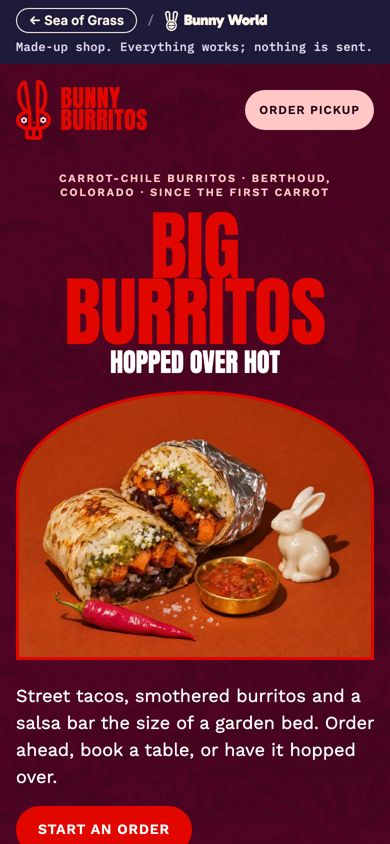
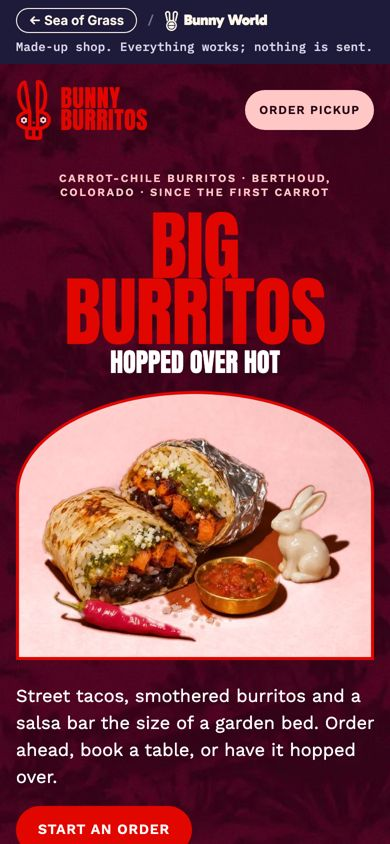
Burritos: hero backdrop recoloured to pink, plant texture back as a flat wine duotone; Long Ears: wordmark straight on the sky, no box (tests first)

Changed region(s): [[0.0308, 0.4621, 0.9538, 0.8009]]

diff --git a/bunnyworld/bunny-burritos/index.html b/bunnyworld/bunny-burritos/index.html
@@ -17,7 +17,7 @@ window.dataLayer=window.dataLayer||[];function gtag(){dataLayer.push(arguments);
 <link rel="preconnect" href="https://fonts.googleapis.com"><link rel="preconnect" href="https://fonts.gstatic.com" crossorigin>
 <link rel="stylesheet" href="https://fonts.googleapis.com/css2?family=Anton&family=Work+Sans:wght@400;500;600;700&family=IBM+Plex+Mono:wght@500&family=Gabarito:wght@900&family=Inter:wght@400;600&display=swap">
 <link rel="stylesheet" href="../shop.css?v=16">
-<link rel="stylesheet" href="style.css?v=17">
+<link rel="stylesheet" href="style.css?v=18">
 </head>
 <body>
 <div class="demo"><span class="crumbs"><a class="sog-back" href="https://seaofgrass.studio/">&larr; Sea of Grass</a><span class="sep" aria-hidden="true">/</span><a class="bw-wm" href="../" aria-label="Back to Bunny World"><img src="../brand/mark-small-cream.svg?v=2" alt="" width="13" height="20"><span>Bunny World</span></a></span><span>Made-up shop. Everything works; nothing is sent.</span></div>
@@ -27,7 +27,7 @@ window.dataLayer=window.dataLayer||[];function gtag(){dataLayer.push(arguments);
 <main id="top">
 <section class="hero wrap"><p class="rule">Carrot-chile burritos &middot; Berthoud, Colorado &middot; since the first carrot</p>
 <h1>Big Burritos</h1><p class="sub">Hopped over hot</p>
-<div class="art photo"><picture><source type="image/webp" srcset="/preview/assets/work/bunny-world/burritos-hero-860.webp 860w, /preview/assets/work/bunny-world/burritos-hero-1290.webp 1290w, /preview/assets/work/bunny-world/burritos-hero-1720.webp 1720w" sizes="(max-width: 900px) calc(100vw - 32px), 860px"><img src="/preview/assets/work/bunny-world/burritos-hero-1100.jpg" width="1100" height="821" alt="A burrito cut in half on a burnt-orange backdrop, its back half in foil, with a bowl of salsa roja, a hot-pink chile and a small white ceramic rabbit" fetchpriority="high" decoding="async"></picture></div>
+<div class="art photo"><picture><source type="image/webp" srcset="/preview/assets/work/bunny-world/burritos-hero-pink-860.webp 860w, /preview/assets/work/bunny-world/burritos-hero-pink-1290.webp 1290w, /preview/assets/work/bunny-world/burritos-hero-pink-1720.webp 1720w" sizes="(max-width: 900px) calc(100vw - 32px), 860px"><img src="/preview/assets/work/bunny-world/burritos-hero-pink-1100.jpg" width="1100" height="821" alt="A burrito cut in half on a burnt-orange backdrop, its back half in foil, with a bowl of salsa roja, a hot-pink chile and a small white ceramic rabbit" fetchpriority="high" decoding="async"></picture></div>
 <div class="hero-row"><p>Street tacos, smothered burritos and a salsa bar the size of a garden bed. Order ahead, book a table, or have it hopped over.</p><a class="btn" href="#menu">Start an order</a></div>
 <div class="getit" aria-labelledby="getit-h"><div class="getit-h"><p class="rule">No pants required</p><h2 id="getit-h">Get it delivered</h2></div><div class="apps"><button class="app dd" type="button" data-demo-link="Demo only: on a real site this opens your DoorDash page.">DoorDash<span aria-hidden="true">&#8599;</span></button><button class="app gh" type="button" data-demo-link="Demo only: on a real site this opens your Grubhub page.">Grubhub<span aria-hidden="true">&#8599;</span></button><button class="app ue" type="button" data-demo-link="Demo only: on a real site this opens your Uber Eats page.">Uber Eats<span aria-hidden="true">&#8599;</span></button></div><p class="getit-note">Hot to your door in about 35 minutes, anywhere in Berthoud.</p></div></section>
 <section class="menu wrap" id="menu"><p class="rule">The menu &middot; order for pickup</p><h2>What's cooking</h2><div class="shots"><figure><picture><source type="image/webp" srcset="/preview/assets/work/bunny-world/burritos-tacos-640.webp 640w, /preview/assets/work/bunny-world/burritos-tacos-960.webp 960w, /preview/assets/work/bunny-world/burritos-tacos-1280.webp 1280w" sizes="(max-width: 900px) calc(50vw - 24px), 590px"><img src="/preview/assets/work/bunny-world/burritos-tacos-900.jpg" width="900" height="672" alt="Three al pastor tacos with pineapple, onion and cilantro on a hot-pink enamel tray, with salsa verde and lime" loading="lazy" decoding="async"></picture><figcaption>Al pastor tacos &middot; $11</figcaption></figure><figure><picture><source type="image/webp" srcset="/preview/assets/work/bunny-world/burritos-chips-640.webp 640w, /preview/assets/work/bunny-world/burritos-chips-960.webp 960w, /preview/assets/work/bunny-world/burritos-chips-1280.webp 1280w" sizes="(max-width: 900px) calc(50vw - 24px), 590px"><img src="/preview/assets/work/bunny-world/burritos-chips-900.jpg" width="900" height="672" alt="Tortilla chips in a gold bowl with salsa roja, salsa verde and carrot-habanero salsa" loading="lazy" decoding="async"></picture><figcaption>Chips &amp; three salsas &middot; $5.50</figcaption></figure></div>

diff --git a/bunnyworld/bunny-burritos/style.css b/bunnyworld/bunny-burritos/style.css
@@ -3,13 +3,13 @@
    Layout and type are unchanged from the Hungry Tiger / Roberta's build: huge poster capitals, dotted rules. */
 :root{--bg:#4f0423;--ink:#ffffff;--muted:#ffc7c6;--line:rgba(255,199,198,.45);--accent:#e10600;--on-accent:#ffffff;--field:#260212;--r:0;--btn-r:999px;--ctl-r:14px;
   --hf:Anton,Impact,sans-serif;--hw:400;--bf:"Work Sans",sans-serif;--mf:"Work Sans",sans-serif}
-/* regional background (2026-11-14, Tristan: "the source material has a multiply effect on it"): the Front Range plants as pale greys on white, doubled to fill the frame
-   (corners rolled into the centre), multiplied onto the #4f0423 ground so they come out about 8-12% darker (his rule: too faint beats too bold) (Hungry Tiger's way), fixed behind the sections, fine film grain on top. */
+/* regional background (2026-11-14; recoloured 2026-11-16): the Front Range plants, doubled to fill the frame (corners rolled into the centre), fixed behind
+   the sections, fine film grain on top. Recoloured into the wine palette as a flat duotone (paper = #4F0423, darkest marks = #260212), so no blend mode. */
 body{background:#4f0423}
-body::before{content:"";position:fixed;inset:0;z-index:-2;pointer-events:none;background:#4f0423 url(/preview/assets/work/bunny-world/burritos-bg-multiply-1920.jpg) center/cover no-repeat;background-blend-mode:multiply;background-image:image-set(url(/preview/assets/work/bunny-world/burritos-bg-multiply-1920.webp) type("image/webp"),url(/preview/assets/work/bunny-world/burritos-bg-multiply-1920.jpg) type("image/jpeg"))}
+body::before{content:"";position:fixed;inset:0;z-index:-2;pointer-events:none;background:#4f0423 url(/preview/assets/work/bunny-world/burritos-bg-wine-1920.jpg) center/cover no-repeat;background-image:image-set(url(/preview/assets/work/bunny-world/burritos-bg-wine-1920.webp) type("image/webp"),url(/preview/assets/work/bunny-world/burritos-bg-wine-1920.jpg) type("image/jpeg"))}
 body::after{content:"";position:fixed;inset:0;z-index:-1;pointer-events:none;background:url(/preview/assets/work/bunny-world/burritos-grain.png) 0 0/256px 256px;background-image:image-set(url(/preview/assets/work/bunny-world/burritos-grain.webp) type("image/webp"),url(/preview/assets/work/bunny-world/burritos-grain.png) type("image/png"));opacity:.32;mix-blend-mode:overlay}
-@media (min-width:1700px),(min-width:1000px) and (min-resolution:2dppx){body::before{background-image:image-set(url(/preview/assets/work/bunny-world/burritos-bg-multiply-2688.webp) type("image/webp"),url(/preview/assets/work/bunny-world/burritos-bg-multiply-1920.jpg) type("image/jpeg"))}}
-@media (max-width:900px){body::before{background-image:image-set(url(/preview/assets/work/bunny-world/burritos-bg-multiply-1280.webp) type("image/webp"),url(/preview/assets/work/bunny-world/burritos-bg-multiply-1920.jpg) type("image/jpeg"))}}
+@media (min-width:1700px),(min-width:1000px) and (min-resolution:2dppx){body::before{background-image:image-set(url(/preview/assets/work/bunny-world/burritos-bg-wine-2688.webp) type("image/webp"),url(/preview/assets/work/bunny-world/burritos-bg-wine-1920.jpg) type("image/jpeg"))}}
+@media (max-width:900px){body::before{background-image:image-set(url(/preview/assets/work/bunny-world/burritos-bg-wine-1280.webp) type("image/webp"),url(/preview/assets/work/bunny-world/burritos-bg-wine-1920.jpg) type("image/jpeg"))}}
 @media (max-aspect-ratio:1/1){body::before{background-size:auto 100%;background-position:30% 50%}}
 .nav{display:grid;grid-template-columns:1fr auto 1fr;align-items:center;gap:12px;padding-block:16px}
 .pills{display:flex;gap:6px;flex-wrap:wrap}.pills.r{justify-content:flex-end}
@@ -53,7 +53,7 @@ h2{font-size:clamp(46px,7vw,104px);line-height:.9;text-transform:uppercase;color
 .hours td{border-color:rgba(255,199,198,.3)}
 @media (max-width:760px){.nav{grid-template-columns:auto 1fr}.nav .pills:first-child{display:none}.visit{grid-template-columns:1fr}}
 
-/* hero photo test (2026-11-14): the photo fills the arched frame; the burrito and the rabbit sit in the lower middle, away from the corners the arch cuts off */
+/* hero photo (2026-11-14; 2026-11-16 the orange backdrop recoloured to the pink #FFC7C6, food untouched): the photo fills the arched frame; the burrito and the rabbit sit in the lower middle, away from the corners the arch cuts off */
 .hero .art.photo{aspect-ratio:4/3;background:#4f0423}
 .hero .art.photo img{display:block;width:100%;height:100%;object-fit:cover;object-position:50% 62%}
 

diff --git a/bunnyworld/long-ears/style.css b/bunnyworld/long-ears/style.css
@@ -4,7 +4,8 @@
    Tesla's charging calculator and Mercury's savings calculator shape the August Test. Aker's route lines are gone.
    Colours (2026-11-16, notes/bunny-world/critic/palettes): Arva (Refero style cc2b9ffb-249e-454f-983c-cd0313899753): white page,
    forest #07503F wordmark and text, sky blue #B2CEE7 buttons and bands, warm #F1EFDF panels, lime #E8FE85 tiny marks on the forest.
-   The huge wordmark keeps its size and moves from gold to forest, set on a white label over the field photo. */
+   The huge wordmark keeps its size and moves from gold to forest. It sits straight on the photo, up in the clear sky where forest
+   reads (no box, no wash over the photo); the tag rides under it and the August Test card stays at the foot. */
 :root{--bg:#ffffff;--ink:#07503f;--muted:#2f4d44;--line:rgba(7,80,63,.16);--accent:#b2cee7;--on-accent:#07503f;--field:#fff;--r:14px;--btn-r:999px;--ctl-r:12px;
   --hf:"Bricolage Grotesque","Hanken Grotesk",sans-serif;--hw:800;--bf:"Hanken Grotesk",sans-serif;--mf:"IBM Plex Mono",monospace;
   --gold:#e8fe85;--sky:#b2cee7;--clay:#b2cee7;--pine:#07503f;--cream:#f1efdf}
@@ -30,7 +31,7 @@ h2{font-size:clamp(40px,5.4vw,80px);text-transform:lowercase;margin:0 0 18px}
 .hero::after{content:"";position:absolute;inset:0;background:linear-gradient(180deg,rgba(20,32,22,.12) 25%,rgba(20,32,22,.66));pointer-events:none}
 .hero .over{position:absolute;left:0;right:0;bottom:clamp(24px,5vw,56px);z-index:2}
 .tag{display:inline-block;margin:0 0 14px;padding:7px 12px;border-radius:999px;background:var(--cream);color:var(--pine);font:500 12px/1.3 var(--mf);letter-spacing:.12em;text-transform:uppercase}
-.hero h1{margin:0;font-size:clamp(84px,15vw,250px);line-height:.82;letter-spacing:-.055em;color:var(--pine);text-transform:lowercase;display:inline-block;background:#ffffff;padding:.04em .12em .12em;border-radius:22px}
+.hero h1{margin:0;font-size:clamp(84px,15vw,250px);line-height:.82;letter-spacing:-.055em;color:var(--pine);text-transform:lowercase}
 .aug-card{position:absolute;z-index:3;right:var(--side);bottom:clamp(24px,5vw,56px);width:min(340px,calc(100% - 32px));display:grid;gap:8px;background:var(--cream);color:var(--pine);border-radius:22px;padding:16px 18px;box-shadow:0 20px 50px rgba(0,0,0,.3);text-decoration:none;transition:transform .2s}
 .aug-card:hover{transform:translateY(-3px)}
 .aug-card .k{font:500 11px/1 var(--mf);letter-spacing:.12em;text-transform:uppercase;color:var(--pine)}
@@ -155,6 +156,11 @@ h2{font-size:clamp(40px,5.4vw,80px);text-transform:lowercase;margin:0 0 18px}
 
 /* ---- AI-UI checklist pass (2026-11-15): flat surfaces (no blurred shadows, gradients or blur), 40px tap targets on phones ---- */
 .mast{backdrop-filter:none;-webkit-backdrop-filter:none;background:var(--cream)}
-.hero::after{background:rgba(7,80,63,.18)}
+.hero::after{background:none}
 .aug-card{box-shadow:none;border:2px solid currentColor}
 .mast .logo{min-height:44px;display:inline-flex;align-items:center}
+
+/* the wordmark on the sky (2026-11-16, Tristan: no label behind it): top of the hero, where the photo is open sky */
+.hero .over{top:clamp(22px,4vw,48px);bottom:auto;display:flex;flex-direction:column-reverse;align-items:flex-start}
+.hero .over .tag{margin:12px 0 0}
+@media (max-width:760px){.hero{justify-content:space-between;padding-top:18px}.hero .over{top:auto}}
